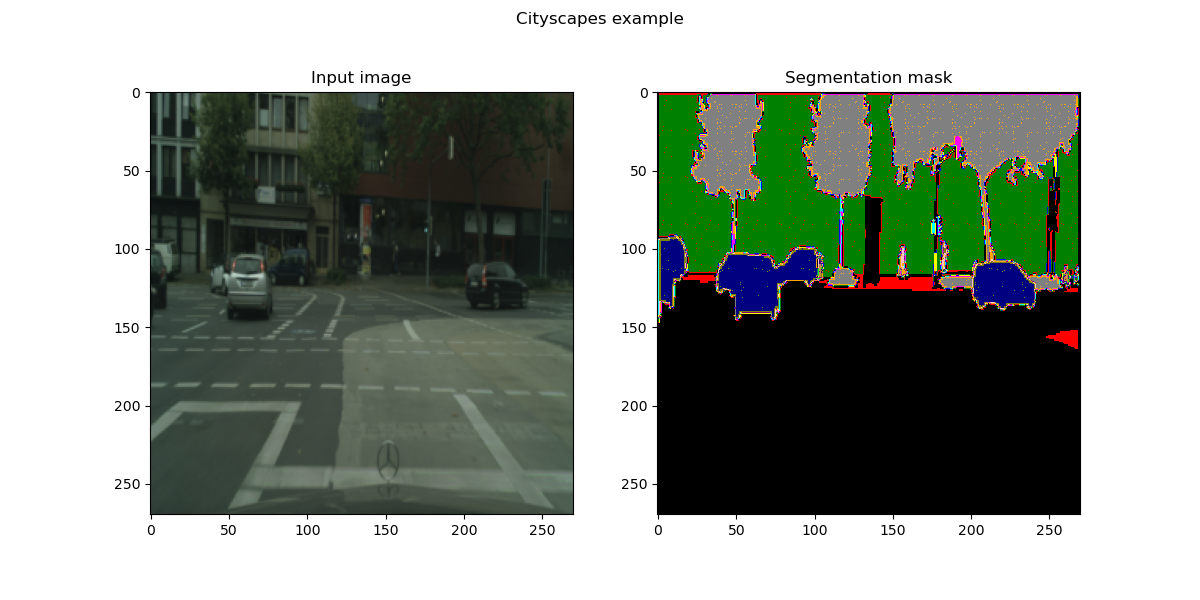
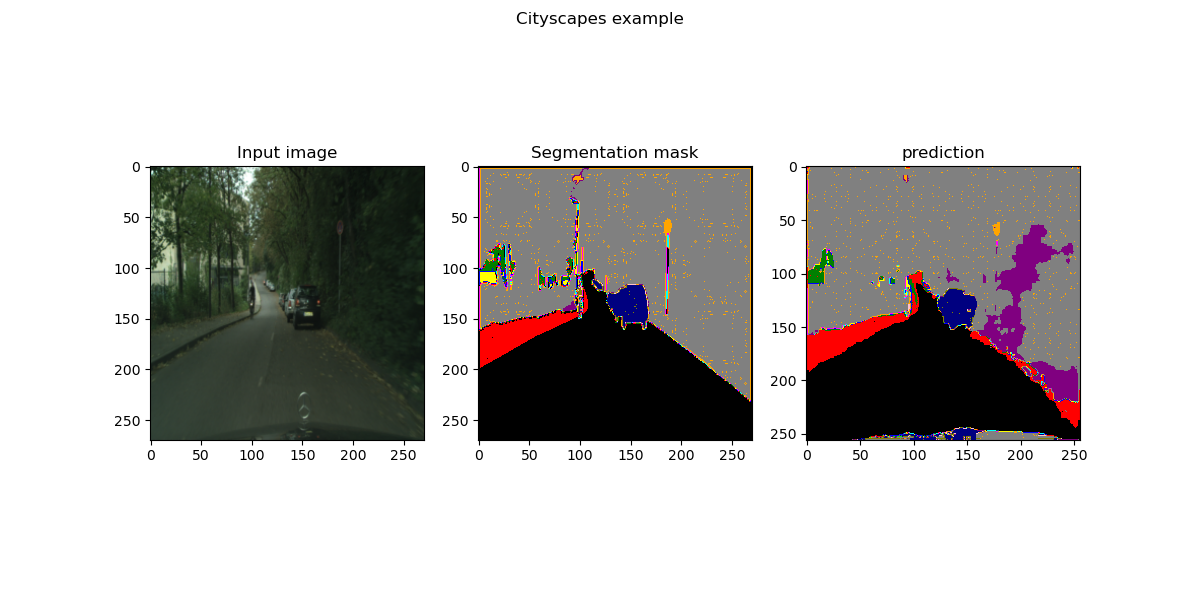
new model

diff --git a/train.py b/train.py
@@ -17,10 +17,10 @@ import numpy as np
 import matplotlib.pyplot as plt
 import utils
 import torch.nn.utils.prune as prune
-#from thop import profile
-#import time
-#from torchsummary import summary
-#import torchvision.models as models
+from thop import profile
+import time
+from torchsummary import summary
+import torchvision.models as models
 
 device = torch.device('cuda' if torch.cuda.is_available() else 'cpu')
 
@@ -36,14 +36,6 @@ class DiceLoss(nn.Module):
         self.smooth = smooth
 
     def forward(self, predictions, targets):
-        """
-        m = torch.nn.Softmax(dim=1)
-        prediction_soft = m(predictions)
-        prediction_max = torch.nn.functional.gumbel_softmax(prediction_soft, tau=1, hard=True, dim=1)
-        print(prediction_max.unique())
-        print(np.shape(prediction_max))
-        print(targets.unique())
-        """
         # Ignore index 255
         mask = targets != 255
         targets = targets[mask]
@@ -100,13 +92,10 @@ def main(args):
 
     # define model
     model = Efficiency_model()#.cuda()
-    #model.load_state_dict(torch.load("SegNet model"))
-
     #layers_not_to_freeze = ['dec_1', 'dec_2', 'dec_3', 'dec_4', 'dec_5']
     #freeze_layers(model, layers_not_to_freeze)
 
     # define optimizer and loss function (don't forget to ignore class index 255)
-    #weights = torch.tensor([1.0, 1.0, 1.0, 1.5, 1.5, 2.0, 2.0, 1.5, 1.0, 1.5, 1.0, 1.5, 2.0, 1.0, 2.0, 1.5, 2.0, 2.0, 1.5])
     criterion = torch.nn.CrossEntropyLoss(ignore_index=255).to(device)
     optimizer = torch.optim.Adam(model.parameters(), lr=0.0001, weight_decay=0.0001)
     scheduler = torch.optim.lr_scheduler.StepLR(optimizer, 0.9)
@@ -191,8 +180,15 @@ def preprocess(img):
     return img
 
 def visualize():
-    model_SegNet = Unet()
-    model_SegNet.load_state_dict(torch.load("models\\Unet"))
+    model_SegNet = Efficiency_model()
+    
+    # Prepare for loading quantized network
+    custom_qconfig = torch.quantization.QConfig(activation=torch.quantization.default_observer,
+                                                weight=torch.quantization.default_weight_observer)
+    model_SegNet.qconfig = custom_qconfig
+    model_prepared = torch.quantization.prepare(model_SegNet, inplace=True)
+    model_SegNet = torch.ao.quantization.convert(model_prepared)
+    model_SegNet.load_state_dict(torch.load("models\\quantized efficiency net +"))
     model_SegNet.eval()
 
     model_Unet = Unet()
@@ -210,7 +206,7 @@ def visualize():
     norm = BoundaryNorm(bounds, len(colors))
 
     # define transform
-    regular_transform = transforms.Compose([transforms.Resize((128, 128)),
+    regular_transform = transforms.Compose([transforms.Resize((270, 270)),
                                             transforms.ToTensor(),
                                             transforms.Normalize(mean=[0.485, 0.456, 0.406], std=[0.229, 0.224, 0.225])])
     
@@ -220,6 +216,8 @@ def visualize():
                                             transforms.RandomResizedCrop(size=(256,256), scale=(0.25, 0.75), ratio=(0.5, 1.5)),
                                             transforms.ToTensor(),
                                             transforms.Normalize(mean=[0.485, 0.456, 0.406], std=[0.229, 0.224, 0.225])])
+    
+    transorm_U_net = transforms.Compose([transforms.Resize((256, 256))])
 
     transform_x = transforms.Compose([transforms.Normalize(mean=[0.485, 0.456, 0.406], std=[0.229, 0.224, 0.225])])
 
@@ -234,6 +232,8 @@ def visualize():
         processed_SegNet = postprocess(prediction_Segnet, shape=(256, 256))
         print("Unique classes in SegNet prediction: ", np.unique(processed_SegNet))
 
+        X = transorm_U_net(X)
+
         prediction_Unet = model_Unet(X)
         processed_Unet = postprocess(prediction_Unet, shape=(256, 256))
         print("Unique classes in Unet prediction:   ", np.unique(processed_Unet))
@@ -245,21 +245,22 @@ def visualize():
         X = X.cpu().detach().numpy().squeeze(0).transpose(1, 2, 0)
         X = X * std + mean
 
-        fig, axs = plt.subplots(1, 4, figsize=(12, 6))  # 1 row, 2 columns
+        fig, axs = plt.subplots(1, 3, figsize=(12, 6))
         axs[0].imshow(processed_SegNet, cmap=custom_cmap, norm=norm)
-        axs[0].set_title('Segnet ++')
+        axs[0].set_title('Efficiency net')
         axs[1].imshow(processed_Unet, cmap=custom_cmap, norm=norm)
-        axs[1].set_title('Segnet +')
+        axs[1].set_title('U-Net')
         axs[2].imshow(Y, cmap=custom_cmap, norm=norm)
-        axs[2].set_title('Y')
-        axs[3].imshow(X)
-        axs[3].set_title('X')
+        axs[2].set_title('Segmentation target')
+        #axs[3].imshow(X)
+        #axs[3].set_title('X')
         fig.suptitle('Segmentation')
         plt.savefig("Images\\segmented images of Unet and SegNet model.png")
         break
 
 def visualize_report():
     model = Efficiency_model()
+    model.eval()
     model.load_state_dict(torch.load("models\\Efficiency net +"))
     mean = [0.485, 0.456, 0.406]
     std = [0.229, 0.224, 0.225]
@@ -286,10 +287,10 @@ def visualize_report():
         prediction = model(X)
         processed = postprocess(prediction, shape=(256, 256))
 
-        fig, axs = plt.subplots(1, 2, figsize=(12, 6))  # 1 row, 2 columns
+        fig, axs = plt.subplots(1, 3, figsize=(12, 6))
         X = X.cpu().detach().numpy().squeeze(0).transpose(1, 2, 0)
         X = X * std + mean
-        Y = (Y*255).squeeze(1)#.cpu().detach().numpy().transpose(1, 2, 0)
+        Y = (Y*255).squeeze(1)
         Y = utils.map_id_to_train_id(Y)
         Y = Y.cpu().detach().numpy().transpose(1, 2, 0)
         Y[Y == 255] = 0
@@ -298,8 +299,8 @@ def visualize_report():
         axs[0].set_title('Input image')
         axs[1].imshow(Y, cmap=custom_cmap, norm=norm)
         axs[1].set_title('Segmentation mask')
-        #axs[2].imshow(processed, cmap=custom_cmap, norm=norm)
-        #axs[2].set_title('prediction')
+        axs[2].imshow(processed, cmap=custom_cmap, norm=norm)
+        axs[2].set_title('prediction')
         fig.suptitle('Cityscapes example')
         plt.savefig("Images\\Report visualization.png")
         break
@@ -326,62 +327,13 @@ def prune_model():
 
 def quantize_model():
     model = Efficiency_model()
-    model.load_state_dict(torch.load("models\\Efficiency net +"))
+    model.load_state_dict(torch.load("models\\Efficiency quantized training"))
     model.eval()
-
-    # attach a global qconfig, which contains information about what kind
-    # of observers to attach. Use 'x86' for server inference and 'qnnpack'
-    # for mobile inference. Other quantization configurations such as selecting
-    # symmetric or asymmetric quantization and MinMax or L2Norm calibration techniques
-    # can be specified here.
-    # Note: the old 'fbgemm' is still available but 'x86' is the recommended default
-    # for server inference.
-    # model_fp32.qconfig = torch.ao.quantization.get_default_qconfig('fbgemm')
-    model.qconfig = torch.ao.quantization.get_default_qconfig('x86')
-
-    # Fuse the activations to preceding layers, where applicable.
-    # This needs to be done manually depending on the model architecture.
-    # Common fusions include `conv + relu` and `conv + batchnorm + relu`
-    model_fused = torch.ao.quantization.fuse_modules(model, [['enc_1a', 'norm_enc_1a'], ['enc_1b', 'norm_enc_1b'],
-                                                             ['enc_2a', 'norm_enc_2a'], ['enc_2b', 'norm_enc_2b'],
-                                                             ['enc_3a', 'norm_enc_3a'], ['enc_3b', 'norm_enc_3b'],
-                                                             ['conv_latent_a', 'norm_lat_a'], ['conv_latent_b', 'norm_lat_b'], 
-                                                             ['dec_1a', 'norm_dec_1a'], ['dec_1b', 'norm_dec_1b'],
-                                                             ['dec_2a', 'norm_dec_2a'], ['dec_2b', 'norm_dec_2b'],
-                                                             ['enc_3a', 'norm_dec_3a'], ['enc_3b', 'norm_dec_3b'],])
-
-    # Prepare the model for static quantization. This inserts observers in
-    # the model that will observe activation tensors during calibration.
-    model_prepared = torch.ao.quantization.prepare(model_fused, allow_list=['enc_1a', 'norm_enc_1a','enc_1b', 'norm_enc_1b',
-                                                                           'enc_2a', 'norm_enc_2a', 'enc_2b', 'norm_enc_2b',
-                                                                           'enc_3a', 'norm_enc_3a', 'enc_3b', 'norm_enc_3b',
-                                                                           'conv_latent_a', 'norm_lat_a', 'conv_latent_b', 'norm_lat_b', 
-                                                                           'dec_1a', 'norm_dec_1a', 'dec_1b', 'norm_dec_1b',
-                                                                           'dec_2a', 'norm_dec_2a', 'dec_2b', 'norm_dec_2b',
-                                                                           'enc_3a', 'norm_dec_3a', 'enc_3b', 'norm_dec_3b'])
-
-    # calibrate the prepared model to determine quantization parameters for activations
-    # in a real world setting, the calibration would be done with a representative dataset
-        # define transform
-    regular_transform = transforms.Compose([transforms.Resize((270, 270)),
-                                            transforms.ToTensor(),
-                                            transforms.Normalize(mean=[0.485, 0.456, 0.406], std=[0.229, 0.224, 0.225])])
-
-    path_local = "C:\\Users\\20192326\\Documents\\YEAR 1 AIES\\Neural networks for computer vision\\Assignment\\data"
-    dataset = Cityscapes(path_local, split='train', mode='fine', target_type='semantic', transforms=regular_transform)#, target_transform=complete_transform) #args.data_path
-    batch_size = 15
-    train_loader = DataLoader(dataset, batch_size=batch_size, shuffle=True)
-    X, Y = train_loader[0]
-    model_prepared(X)
-
-    # Convert the observed model to a quantized model. This does several things:
-    # quantizes the weights, computes and stores the scale and bias value to be
-    # used with each activation tensor, and replaces key operators with quantized
-    # implementations.
+    custom_qconfig = torch.quantization.QConfig(activation=torch.quantization.default_observer,
+                                                weight=torch.quantization.default_weight_observer)
+    model.qconfig = custom_qconfig
+    model_prepared = torch.quantization.prepare(model, inplace=True)
     model_quantized = torch.ao.quantization.convert(model_prepared)
-
-    # run the model, relevant calculations will happen in int8
-    res = model_quantized(X)
 
     torch.save(model_quantized.state_dict(), 'models\\quantized efficiency net +')  
 
@@ -389,7 +341,6 @@ def quantize_model():
 def count_flops():
     model = Efficiency_model()
     model.load_state_dict(torch.load("models\\quantized efficiency net +"))
-
 
     # define transform
     regular_transform = transforms.Compose([transforms.Resize((270, 270)),
@@ -430,9 +381,9 @@ if __name__ == "__main__":
     # Get the arguments
     parser = get_arg_parser()
     args = parser.parse_args()
-    main(args)
+    #main(args)
 
-    #visualize()
+    visualize()
     #visualize_report()
     
     #count_flops()

diff --git a/model.py b/model.py
@@ -158,7 +158,7 @@ class SegNet(nn.Module):
 
         # Decode stage 5
         #self.up_5 = nn.ConvTranspose2d(512, 512, kernel_size=2, stride=2, padding=0)    
-        self.dec_5a = nn.Conv2d(512, 512, kernel_size=3, padding=1)
+        self.dec_5a = nn.Conv2d(2*512, 512, kernel_size=3, padding=1)
         self.dec_5b = nn.Conv2d(512, 512, kernel_size=3, padding=1)
         self.dec_5c = nn.Conv2d(512, 512, kernel_size=3, padding=1)
         self.norm_dec_5a = nn.BatchNorm2d(512, momentum=0.5)
@@ -167,7 +167,7 @@ class SegNet(nn.Module):
 
         # Decode stage 4    
         #self.up_4 = nn.ConvTranspose2d(512, 512, kernel_size=2, stride=2, padding=0) 
-        self.dec_4a = nn.Conv2d(512, 512, kernel_size=3, padding=1)
+        self.dec_4a = nn.Conv2d(2*512, 512, kernel_size=3, padding=1)
         self.dec_4b = nn.Conv2d(512, 512, kernel_size=3, padding=1)
         self.dec_4c = nn.Conv2d(512, 256, kernel_size=3, padding=1)
         self.norm_dec_4a = nn.BatchNorm2d(512, momentum=0.5)
@@ -176,7 +176,7 @@ class SegNet(nn.Module):
 
         # Decode stage 3    
         #self.up_3 = nn.ConvTranspose2d(512, 256, kernel_size=2, stride=2, padding=0) 
-        self.dec_3a = nn.Conv2d(256, 256, kernel_size=3, padding=1)
+        self.dec_3a = nn.Conv2d(2*256, 256, kernel_size=3, padding=1)
         self.dec_3b = nn.Conv2d(256, 256, kernel_size=3, padding=1)
         self.dec_3c = nn.Conv2d(256, 128, kernel_size=3, padding=1)
         self.norm_dec_3a = nn.BatchNorm2d(256, momentum=0.5)
@@ -185,14 +185,14 @@ class SegNet(nn.Module):
 
         # Decode stage 2  
         #self.up_2 = nn.ConvTranspose2d(256, 128, kernel_size=2, stride=2, padding=0)   
-        self.dec_2a = nn.Conv2d(128, 128, kernel_size=3, padding=1)
+        self.dec_2a = nn.Conv2d(2*128, 128, kernel_size=3, padding=1)
         self.dec_2b = nn.Conv2d(128, 64, kernel_size=3, padding=1)
         self.norm_dec_2a = nn.BatchNorm2d(128, momentum=0.5)
         self.norm_dec_2b = nn.BatchNorm2d(64, momentum=0.5)
 
         # Decode stage 1  
         #self.up_1 = nn.ConvTranspose2d(128, 64, kernel_size=2, stride=2, padding=0)   
-        self.dec_1a = nn.Conv2d(64, 64, kernel_size=3, padding=1)
+        self.dec_1a = nn.Conv2d(2*64, 64, kernel_size=3, padding=1)
         self.dec_1b = nn.Conv2d(64, 19, kernel_size=1, padding=0)
         self.norm_dec_1 = nn.BatchNorm2d(64, momentum=0.5)     
 
@@ -233,7 +233,7 @@ class SegNet(nn.Module):
         # Decode Stage 5
         x = self.unpool(x, ind5, output_size=size4)
         #x = self.up_5(x)
-        #x = torch.cat([x, x5], axis=1)
+        x = torch.cat([x, x5], axis=1)
         x = function.relu(self.norm_dec_5a(self.dec_5a(x)))
         x = function.relu(self.norm_dec_5b(self.dec_5b(x)))
         x = function.relu(self.norm_dec_5c(self.dec_5c(x)))
@@ -241,7 +241,7 @@ class SegNet(nn.Module):
         # Decode Stage 4
         x = self.unpool(x, ind4, output_size=size3)
         #x = self.up_4(x)
-        #x = torch.cat([x, x4], axis=1)
+        x = torch.cat([x, x4], axis=1)
         x = function.relu(self.norm_dec_4a(self.dec_4a(x)))
         x = function.relu(self.norm_dec_4b(self.dec_4b(x)))
         x = function.relu(self.norm_dec_4c(self.dec_4c(x)))
@@ -249,7 +249,7 @@ class SegNet(nn.Module):
         # Decode Stage 3
         x = self.unpool(x, ind3, output_size=size2)
         #x = self.up_3(x)
-        #x = torch.cat([x, x3], axis=1)
+        x = torch.cat([x, x3], axis=1)
         x = function.relu(self.norm_dec_3a(self.dec_3a(x)))
         x = function.relu(self.norm_dec_3b(self.dec_3b(x)))
         x = function.relu(self.norm_dec_3c(self.dec_3c(x)))
@@ -257,14 +257,14 @@ class SegNet(nn.Module):
         # Decode Stage 2
         x = self.unpool(x, ind2, output_size=size1)
         #x = self.up_2(x)
-        #x = torch.cat([x, x2], axis=1)
+        x = torch.cat([x, x2], axis=1)
         x = function.relu(self.norm_dec_2a(self.dec_2a(x)))
         x = function.relu(self.norm_dec_2b(self.dec_2b(x)))
 
         # Decode Stage 1
         x = self.unpool(x, ind1)
         #x = self.up_1(x)
-        #x = torch.cat([x, x1], axis=1)
+        x = torch.cat([x, x1], axis=1)
         x = function.relu(self.norm_dec_1(self.dec_1a(x)))
         x = self.dec_1b(x)
 
